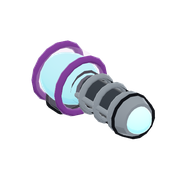
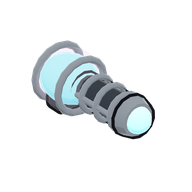
Vampiric parts: Siphon Proboscis, Blood Siphon, Bloodgnat
- Siphon Proboscis (jaw slot, rare): each hit heals 60% of damage dealt into
  the bug's most damaged parts.
- Blood Siphon (quick move): latch on 2.4 s, drain 9 dmg / 0.3 s, heal it all;
  AI won't break off mid-drink.
- Heal events: red droplets from victim to drinker, green +n numbers.
- New Undergrowth stop Bloodgnat (unlocks Vexa); Vexa toned down slightly.
- Proboscis model/icon, portrait.

Claude-Session: https://claude.ai/code/session_01FT8aJXgYMDZrr4uHJvcXkr

Changed region(s): [[0.1562, 0.1875, 0.5625, 0.625]]

diff --git a/src/game/sim.ts b/src/game/sim.ts
@@ -77,6 +77,9 @@ export type Bug = {
   haste: number;
   /** Seconds left underground (Burrow Strike): untouchable, tunnelling at its target. */
   burrow: number;
+  /** Seconds of Blood Siphon left (latched on, draining). */
+  siphon: number;
+  siphonTick: number;
   /** Exponentially decaying recent damage taken, for move judgement. */
   recentDamage: number;
   /** Autonomous driver state (see aiInput). */
@@ -104,7 +107,9 @@ export type SimEvent =
   | { type: 'ult-release'; bug: number; move: MoveId }
   | { type: 'move'; bug: number; move: MoveId }
   /** A burrowed bug bursts out of the floor. */
-  | { type: 'erupt'; bug: number; x: number; y: number };
+  | { type: 'erupt'; bug: number; x: number; y: number }
+  /** A bug healed (vampiric hits, Blood Siphon). `from` is the bug it drank from. */
+  | { type: 'heal'; bug: number; from: number; x: number; y: number; h: number; amount: number };
 
 export type Ult = { id: MoveId; caster: number; t: number; dur: number };
 
@@ -265,6 +270,8 @@ function makeBug(index: number, team: 0 | 1, fighter: Fighter, pos: Vec, heading
     cloak: 0,
     haste: 0,
     burrow: 0,
+    siphon: 0,
+    siphonTick: 0,
     recentDamage: 0,
     alt: 0,
     vAlt: 0,
@@ -416,8 +423,9 @@ export function critChance(attacker: Bug, victim: Bug, from: Vec) {
   return Math.min(CRIT.max, CRIT.base + angle + attacker.stats.crit);
 }
 
-function damagePart(sim: Sim, bug: Bug, p: SimPart, dmg: number, attacker: Bug | null, crit = false) {
-  if (!p.alive || !canBeHurt(sim, bug)) return;
+/** Damage a part; returns the damage actually done (0 if it couldn't be hurt). */
+function damagePart(sim: Sim, bug: Bug, p: SimPart, dmg: number, attacker: Bug | null, crit = false): number {
+  if (!p.alive || !canBeHurt(sim, bug)) return 0;
   if (bug.cloak > 0) bug.cloak = Math.min(bug.cloak, 0.4); // a hit flushes it out of hiding
   dmg *= DAMAGE_SCALE * (0.8 + rand(sim) * 0.4) * (crit ? CRIT.mult : 1);
   if (bug.shield > 0) dmg *= 0.3;
@@ -449,7 +457,7 @@ function damagePart(sim: Sim, bug: Bug, p: SimPart, dmg: number, attacker: Bug |
     sim.hitstop = Math.max(sim.hitstop, 0.04);
     sim.shake = Math.max(sim.shake, 0.18);
   }
-  if (p.hp > 0) return;
+  if (p.hp > 0) return dmg;
 
   p.alive = false;
   // A part breaking gets a beat of hit-stop and a proper shake.
@@ -472,8 +480,26 @@ function damagePart(sim: Sim, bug: Bug, p: SimPart, dmg: number, attacker: Bug |
   }
   refresh(bug);
   if (bug.dead) sim.log.push(`${bug.name} is disabled!`);
+  return dmg;
 }
 
+/**
+ * Heal `bug` by `amount`, most-damaged parts first (broken parts stay broken).
+ * `from` is the bug the health was drunk from (for the effect).
+ */
+function heal(sim: Sim, bug: Bug, amount: number, from: Bug) {
+  if (bug.dead || amount <= 0) return;
+  let left = amount;
+  const hurt = bug.parts.filter((p) => p.alive && p.hp < p.part.hp).sort((a, b) => a.hp / a.part.hp - b.hp / b.part.hp);
+  for (const p of hurt) {
+    const add = Math.min(left, p.part.hp - p.hp);
+    p.hp += add;
+    left -= add;
+    if (left <= 0) break;
+  }
+  const done = amount - left;
+  if (done > 0.5) sim.events.push({ type: 'heal', bug: bug.index, from: from.index, x: bug.pos.x, y: bug.pos.y, h: bug.alt, amount: done });
+}
 function damageNear(sim: Sim, bug: Bug, at: Vec, dmg: number, attacker: Bug | null) {
   const hit = nearestPart(bug, at, true);
   if (hit) damagePart(sim, bug, hit.p, dmg, attacker);
@@ -542,6 +568,9 @@ function judge(sim: Sim, bug: Bug, id: MoveId): boolean {
       return bug.haste <= 0 && dist < 170;
     case 'gale-flap':
       return near(120, true) || (near(120) && bug.recentDamage > 10);
+    case 'blood-siphon':
+      // Latch on once hurt enough for it to matter.
+      return bug.siphon <= 0 && dist < bug.radius + foe.radius + 30 && hpFraction(bug) < 0.85 && Math.abs(foe.alt - bug.alt) < 30;
   }
 }
 
@@ -745,6 +774,10 @@ function resolveMove(sim: Sim, bug: Bug, id: MoveId) {
     case 'overclock':
       bug.haste = 5;
       break;
+    case 'blood-siphon':
+      bug.siphon = 2.4;
+      bug.siphonTick = 0;
+      break;
     case 'gale-flap':
       for (const e of foesOf(sim, bug)) {
         const d = Math.hypot(e.pos.x - bug.pos.x, e.pos.y - bug.pos.y) || 1;
@@ -780,6 +813,18 @@ function stepBug(sim: Sim, i: number, input: Input, dt: number) {
   bug.stun = Math.max(0, bug.stun - dt);
   bug.cloak = Math.max(0, bug.cloak - dt);
   bug.haste = Math.max(0, bug.haste - dt);
+  // Blood Siphon: while latched on and in reach, drink from the nearest enemy part.
+  if (bug.siphon > 0) {
+    bug.siphon = Math.max(0, bug.siphon - dt);
+    bug.siphonTick -= dt;
+    const prey = foeOf(sim, bug);
+    const gap = Math.hypot(prey.pos.x - bug.pos.x, prey.pos.y - bug.pos.y);
+    if (bug.siphonTick <= 0 && !bug.dead && !prey.dead && bug.stun <= 0 && gap < bug.radius + prey.radius + 40 && Math.abs(prey.alt - bug.alt) < 35) {
+      bug.siphonTick = 0.3;
+      const near = nearestPart(prey, bug.pos, true);
+      if (near) heal(sim, bug, damagePart(sim, prey, near.p, 9, bug), prey);
+    }
+  }
   for (const id of bug.moves) bug.moveCd[id] = Math.max(0, (bug.moveCd[id] ?? 0) - dt);
   if (bug.dead) {
     bug.vel.x *= 0.9;
@@ -874,7 +919,8 @@ function stepBug(sim: Sim, i: number, input: Input, dt: number) {
           dmg += Math.max(0, closing) * w.ramBonus;
         }
         const crit = rand(sim) < critChance(bug, enemy, wp) || ambush;
-        damagePart(sim, enemy, strikeTarget(sim, enemy, wp, bug.alt > enemy.alt + 15) ?? target.p, dmg, bug, crit);
+        const dealt = damagePart(sim, enemy, strikeTarget(sim, enemy, wp, bug.alt > enemy.alt + 15) ?? target.p, dmg, bug, crit);
+        if (w.drain) heal(sim, bug, dealt * w.drain, enemy);
       }
     }
     tryMoves(sim, bug);
@@ -1530,7 +1576,8 @@ export function aiInput(sim: Sim, me: number, aggression: number = sim.bugs[me].
       const fragile = bug.parts.some(
         (p) => p.alive && (p.part.category === 'core' || (p.part.weapon && weapons.length <= 1)) && p.hp < p.part.hp * 0.3,
       );
-      if (ai.engaged > flurry * (fragile ? 0.65 : 1) || (losingTrade && ai.engaged > 0.4)) {
+      // (Don't break off mid-drink.)
+      if (bug.siphon <= 0 && (ai.engaged > flurry * (fragile ? 0.65 : 1) || (losingTrade && ai.engaged > 0.4))) {
         ai.engaged = 0;
         setMode('retreat');
       }
@@ -1625,7 +1672,7 @@ export function hud(sim: Sim): Hud {
     dead: bug.dead,
     hp: hpFraction(bug),
     proc: bug.proc,
-    status: `${bug.webbed > 0 ? ' 🕸' : ''}${bug.stun > 0 ? ' ⚡' : ''}${bug.cloak > 0 ? ' 👻' : ''}${bug.burrow > 0 ? ' ⛏' : ''}${bug.haste > 0 ? ' 🔥' : ''}`,
+    status: `${bug.webbed > 0 ? ' 🕸' : ''}${bug.stun > 0 ? ' ⚡' : ''}${bug.cloak > 0 ? ' 👻' : ''}${bug.burrow > 0 ? ' ⛏' : ''}${bug.haste > 0 ? ' 🔥' : ''}${bug.siphon > 0 ? ' 🩸' : ''}`,
     shield: bug.shield > 0,
     flying: bug.alt > 8,
     wings: maxStamina(bug) > 0 ? bug.stamina / maxStamina(bug) : -1,

diff --git a/src/render/scene.ts b/src/render/scene.ts
@@ -681,6 +681,13 @@ export class ArenaRenderer {
         this.releaseFx(sim, e.move, e.bug);
       } else if (e.type === 'move') {
         this.moveFx(sim, e.move, e.bug);
+      } else if (e.type === 'heal') {
+        // Health flowing from the victim into the drinker: a few red droplets and a green glint.
+        const to = toWorld(e.x, e.y, e.h / CELL + 0.9);
+        const src = sim.bugs[e.from];
+        const from = toWorld(src.pos.x, src.pos.y, src.alt / CELL + 0.8);
+        this.drip(from, to, Math.min(6, 2 + Math.round(e.amount / 3)));
+        this.burst(to, 3, 0x7cffb2, 0.5);
       } else if (e.type === 'erupt') {
         // A burrower bursts out of the floor.
         const at = toWorld(e.x, e.y, 0.3);
@@ -972,6 +979,23 @@ export class ArenaRenderer {
     }
   }
 
+  /** Red droplets that fly from one point to another (vampiric healing). */
+  private drip(from: THREE.Vector3, to: THREE.Vector3, n: number) {
+    for (let i = 0; i < n; i++) {
+      const b = this.bits[this.nextBit];
+      this.nextBit = (this.nextBit + 1) % this.bits.length;
+      b.m.position.copy(from).add(new THREE.Vector3((Math.random() - 0.5) * 0.6, Math.random() * 0.4, (Math.random() - 0.5) * 0.6));
+      const life = 0.32 + Math.random() * 0.12;
+      // Aim so it arrives at `to` as gravity pulls it down (16 units/s²).
+      const v = to.clone().sub(b.m.position).divideScalar(life);
+      v.y += 8 * life;
+      b.vel.copy(v);
+      (b.m.material as THREE.MeshBasicMaterial).color.set(i % 3 === 0 ? 0xff6b6b : 0xc8102e);
+      b.life = b.max = life;
+      b.m.visible = true;
+    }
+  }
+
   /** Effects for the quick (non-cutscene) moves, fired the moment they're used. */
   private moveFx(sim: Sim, id: MoveId, bi: number) {
     const b = sim.bugs[bi];
@@ -1006,6 +1030,10 @@ export class ArenaRenderer {
         this.flash(mid, color, 1.7, 0.3);
         this.wave(mid, color, 1.2);
         this.startStreaks(bi, color, 0.5);
+        break;
+      case 'blood-siphon':
+        this.flash(mid, color, 1.4, 0.3);
+        this.burst(mid, 10, color, 0.9);
         break;
       case 'burrow-strike':
         this.burst(floor, 16, 0x8a6a45, 1.2);
@@ -1046,6 +1074,7 @@ export class ArenaRenderer {
       v.fxClock = 0;
       if (under) this.burst(toWorld(bug.pos.x, bug.pos.y, 0.2), 2, 0x8a6a45, 0.8);
       if (bug.stun > 0) this.burst(toWorld(bug.pos.x, bug.pos.y, bug.alt / CELL + 1.3), 2, 0xffe14d, 0.6);
+      if (bug.siphon > 0 && !bug.dead) this.burst(toWorld(bug.pos.x, bug.pos.y, bug.alt / CELL + 1.1), 1, 0xe8323f, 0.5);
       if (bug.haste > 0 && !bug.dead) this.burst(toWorld(bug.pos.x, bug.pos.y, bug.alt / CELL + 0.6), 1, 0xff9a2e, 0.6);
     }
   }

diff --git a/src/game/parts.ts b/src/game/parts.ts
@@ -39,10 +39,12 @@ export type WeaponStats = {
   ramBonus?: number;
   /** Lasers: the shot is a bolt of light (very fast; drawn as a beam). */
   beam?: boolean;
+  /** Vampiric: this share of the damage dealt heals the attacker's most damaged parts. */
+  drain?: number;
 };
 
 /** Special hardware a signature move can need (see MoveDef.requires). */
-export type PartTag = 'venom' | 'silk' | 'spider' | 'dig' | 'cloak' | 'laser' | 'shock';
+export type PartTag = 'venom' | 'silk' | 'spider' | 'dig' | 'cloak' | 'laser' | 'shock' | 'drain';
 
 export type PartDef = {
   id: string;
@@ -90,6 +92,7 @@ export const PARTS: readonly PartDef[] = [
   // ── Weapons ────────────────────────────────────────────────────
   { id: 'mand-gnash', name: 'Gnasher Jaws', category: 'mandibles', rarity: 'common', description: 'Chomping jaws. Short reach, steady damage.', hp: 35, mass: 4, power: 2, weapon: { damage: 9, range: 34, cooldown: 0.6, arc: deg(50) } },
   { id: 'mand-shear', name: 'Shearfang Jaws', category: 'mandibles', rarity: 'rare', description: 'Serrated scissor jaws that bite deep.', hp: 45, mass: 5, power: 3, weapon: { damage: 16, range: 36, cooldown: 0.7, arc: deg(45) } },
+  { id: 'mand-proboscis', name: 'Siphon Proboscis', category: 'mandibles', rarity: 'rare', description: 'A mosquito needle. Every hit heals your bug for 60% of the damage. Lets you use Blood Siphon.', hp: 30, mass: 3, power: 2, tag: 'drain', weapon: { damage: 11, range: 44, cooldown: 0.65, arc: deg(30), drain: 0.6 } },
   { id: 'sting-dart', name: 'Dart Stinger', category: 'stinger', rarity: 'uncommon', description: 'Fires corrosive darts at range.', hp: 25, mass: 3, power: 3, tag: 'venom', weapon: { damage: 10, range: 190, cooldown: 1.0, arc: deg(20), projectileSpeed: 320 } },
   { id: 'sting-lance', name: 'Arc Lance Stinger', category: 'stinger', rarity: 'epic', description: 'Overcharged stinger. Heavy darts, long reload.', hp: 35, mass: 4, power: 5, tag: 'venom', weapon: { damage: 18, range: 220, cooldown: 1.6, arc: deg(18), projectileSpeed: 380 } },
   { id: 'pinc-clamp', name: 'Clamp Pincers', category: 'pincers', rarity: 'common', description: 'Wide-sweeping claws that crush.', hp: 40, mass: 5, power: 2, weapon: { damage: 12, range: 40, cooldown: 0.9, arc: deg(70) } },

diff --git a/src/render/models.ts b/src/render/models.ts
@@ -328,6 +328,7 @@ const LOOK: Record<string, number> = {
   'legs-crawler': 2,
   'wings-glass': 1,
   'mand-shear': 1,
+  'mand-proboscis': 2,
   'sting-lance': 1,
   'pinc-vise': 1,
   'horn-drill': 1,
@@ -693,6 +694,28 @@ export function buildPart(partId: string, side: number, row = 0): PartModel {
     }
 
     case 'mandibles': {
+      if (look === 2) {
+        // Mosquito proboscis: a fleshy sheath, a long needle with a blood tube that glows as it drinks.
+        root.add(at(shape(ellip(0.3, 0.22, 0.26), dark), 0, 0.5, 0.26));
+        for (const d of [-1, 1]) root.add(at(shape(ellip(0.1, 0.08, 0.12), main, 0.02), 0.2 * d, 0.56, 0.12)); // palps
+        const blood = mat(0xff8f8f, { emissive: 0xc8102e });
+        const needle = new THREE.Group();
+        needle.position.set(0, 0.5, 0.06);
+        needle.add(chain([V(0, 0, 0), V(0, -0.02, -0.4), V(0, -0.06, -0.8)], 0.1, 0.06, main));
+        for (let i = 0; i < 4; i++) needle.add(at(new THREE.Mesh(torus(0.095 - i * 0.008, 0.022), dark), 0, -0.01 - i * 0.012, -0.12 - i * 0.18));
+        const tube = seg(V(0, 0.05, -0.05), V(0, 0.0, -0.78), 0.035, blood, 0.03, 0);
+        needle.add(tube);
+        const tip = shape(cone(0.04, 0.42, 6), steel, 0.02);
+        tip.rotation.x = -Math.PI / 2 - 0.08;
+        needle.add(at(tip, 0, -0.08, -1.0));
+        root.add(needle);
+        animate = ({ t, attack }) => {
+          needle.position.z = 0.06 - attack * 0.22; // stab
+          needle.rotation.x = Math.sin(t * 2.2 + row) * 0.04 + attack * 0.06;
+          blood.emissiveIntensity = 0.5 + Math.max(0, Math.sin(t * 7)) * 0.4 + attack * 1.5; // pumping
+        };
+        break;
+      }
       root.add(at(shape(rbox(0.6, 0.32, 0.36, 0.12), dark), 0, 0.5, 0.28));
       root.add(at(shape(rbox(0.36, 0.12, 0.1, 0.04), gun, 0.02), 0, 0.5, 0.08)); // mouth recess
       for (const d of [-1, 1]) bolt(0.22 * d, 0.68, 0.3);

diff --git a/src/game/opponents.ts b/src/game/opponents.ts
@@ -99,6 +99,7 @@ const L = {
   q: 'pinc-digger',
   t: 'horn-shock',
   i: 'armor-mirage',
+  y: 'mand-proboscis',
 };
 
 const bug = (name: string, rows: string[]): Build => ({ name, placements: fromLayout(rows, L) });
@@ -247,12 +248,26 @@ export const OPPONENTS: Opponent[] = [
     map: { x: 0.72, y: 0.665 },
   },
   {
+    id: 'bloodgnat',
+    name: 'Bloodgnat',
+    blurb: 'A whining mosquito-bot. Every bite it lands patches it up, so finish it fast.',
+    arena: 'pit',
+    aggression: 0.9,
+    build: bug('Bloodgnat', ['.MyM.', 'ceHec', 'GBOBG', 'sKoKs', '.s.s.']),
+    moves: ['blood-siphon', 'overclock'],
+    boss: false,
+    guaranteed: [move('blood-siphon'), part('mand-proboscis')],
+    lootTable: [...tierTable('rare'), { reward: part('mand-proboscis'), weight: 20 }, { reward: part('wings-glass'), weight: 6 }],
+    unlockedBy: ['silkjaw'],
+    map: { x: 0.5, y: 0.665 },
+  },
+  {
     id: 'vexa',
     name: 'Queen Vexa',
     blurb: 'Hive champion. Drill horn, shear jaws, glass wings. Farmable boss.',
     arena: 'hive',
     aggression: 0.8,
-    build: bug('Queen Vexa', ['.mDM.', 'rBVBr', 'GBOBG', '.gog.']),
+    build: bug('Queen Vexa', ['.mhM.', 'rBVBr', 'GBOBG', '.gog.']),
     moves: ['mandible-crusher', 'carapace-lock'],
     boss: true,
     guaranteed: [part('wings-glass'), part('mand-shear')],
@@ -264,7 +279,7 @@ export const OPPONENTS: Opponent[] = [
       { reward: part('wings-glass'), weight: 8 },
       { reward: move('mandible-crusher'), weight: 4 },
     ],
-    unlockedBy: ['gravelgrub', 'arcfly'],
+    unlockedBy: ['gravelgrub', 'arcfly', 'bloodgnat'],
     map: { x: 0.5, y: 0.585 },
   },
 

diff --git a/src/app/arena.tsx b/src/app/arena.tsx
@@ -160,6 +160,19 @@ export default function Arena() {
       const items: Floater[] = [];
       for (; cursor < sim.events.length; cursor++) {
         const e = sim.events[cursor];
+        if (e.type === 'heal') {
+          if (e.amount < 2) continue;
+          const hp = renderer.project(e.x, e.y, e.h / CELL + 2.2);
+          items.push({
+            id: nextId++,
+            x: Math.min(size.current.w - 50, Math.max(50, hp.x * size.current.w)),
+            y: Math.min(size.current.h - 120, Math.max(90, hp.y * size.current.h)),
+            text: `+${Math.round(e.amount)}`,
+            color: '#7CFFB2',
+            size: 18,
+          });
+          continue;
+        }
         if (e.type !== 'hit' && e.type !== 'break' && e.type !== 'crash') continue;
         const crit = e.type === 'hit' && e.crit;
         const h = e.type === 'crash' ? 0 : e.h / CELL;

diff --git a/src/game/moves.ts b/src/game/moves.ts
@@ -27,7 +27,8 @@ export type MoveId =
   | 'sunder-beam'
   | 'static-burst'
   | 'overclock'
-  | 'gale-flap';
+  | 'gale-flap'
+  | 'blood-siphon';
 
 export type MoveDef = {
   id: MoveId;
@@ -167,6 +168,17 @@ export const MOVES: readonly MoveDef[] = [
     cooldown: 8,
     ultimate: false,
     requires: { category: 'wings', count: 1, label: 'wings' },
+  },
+  {
+    id: 'blood-siphon',
+    name: 'Blood Siphon',
+    description: 'Latches on and drinks for 2.4 seconds: drains the nearest enemy part and pours it all back into your own damaged parts. Needs a Siphon Proboscis.',
+    rarity: 'rare',
+    color: '#E8323F',
+    cost: 35,
+    cooldown: 11,
+    ultimate: false,
+    requires: { tag: 'drain', count: 1, label: 'a Siphon Proboscis' },
   },
 ];
 

diff --git a/src/components/part-icons.ts b/src/components/part-icons.ts
@@ -19,6 +19,7 @@ export const PART_ICONS: Record<string, ImageSourcePropType> = {
   'wings-glass': require('@/assets/parts/wings-glass.png'),
   'mand-gnash': require('@/assets/parts/mand-gnash.png'),
   'mand-shear': require('@/assets/parts/mand-shear.png'),
+  'mand-proboscis': require('@/assets/parts/mand-proboscis.png'),
   'sting-dart': require('@/assets/parts/sting-dart.png'),
   'sting-lance': require('@/assets/parts/sting-lance.png'),
   'pinc-clamp': require('@/assets/parts/pinc-clamp.png'),

diff --git a/src/components/bug-portraits.ts b/src/components/bug-portraits.ts
@@ -12,6 +12,7 @@ export const BUG_PORTRAITS: Record<string, ImageSourcePropType> = {
   lattice: require('@/assets/bugs/lattice.png'),
   gravelgrub: require('@/assets/bugs/gravelgrub.png'),
   arcfly: require('@/assets/bugs/arcfly.png'),
+  bloodgnat: require('@/assets/bugs/bloodgnat.png'),
   vexa: require('@/assets/bugs/vexa.png'),
   twins: require('@/assets/bugs/twins.png'),
   glimmer: require('@/assets/bugs/glimmer.png'),

diff --git a/docs/GDD.md b/docs/GDD.md
@@ -137,7 +137,10 @@ Moves are unlocked like parts (from drops) and **equipped** in the Garage. There
 - **Ghost Shell** (Mirage Plate): invisible for 4.5 s. Enemies hunt its last-seen spot and can't target it unless it's touching them; its first melee hit out of hiding is a guaranteed crit; taking a hit flushes it out. Your own bug shows as a ghost, enemies all but vanish.
 - **Static Burst** (Tesla Prongs): enemies close by are stunned 1.3 s and lose 15 proc.
 - **Overclock** (2 cores): 5 s of +35% speed and +50% attack rate.
+- **Blood Siphon** (Siphon Proboscis): latches on for 2.4 s, draining 9 damage every 0.3 s from the nearest enemy part while in reach and pouring all of it back into its own most-damaged parts. The AI won't break off mid-drink.
 - **Gale Flap** (wings): hurls nearby enemies back (lighter ones further) and drains flyers' wing stamina so they drop.
+
+**Vampiric weapons:** the Siphon Proboscis (a jaw-slot mosquito needle) heals its bug for 60% of the damage each hit deals, most-damaged parts first (broken parts stay broken). Heals show as red droplets flowing from the victim and green **+n** numbers.
 
 **Sunder Beam** (Prism Cutter) is the fourth ultimate: the bug swings its lens onto the target and fires a beam that hits up to 5 parts in a line (piercing).
 
@@ -168,12 +171,12 @@ Measured with `scripts/simulate.ts` and an ad-hoc behaviour probe: about 5–7 c
 
 ## 8. Campaign and loot
 
-The campaign (`src/game/opponents.ts`) is a scrolling map of 17 stops in three zones. A stop unlocks when any of its `unlockedBy` stops is cleared.
+The campaign (`src/game/opponents.ts`) is a scrolling map of 18 stops in three zones. A stop unlocks when any of its `unlockedBy` stops is cleared.
 
 | Zone | Stops |
 |---|---|
 | **The Scrapyard** | Rustmite → Needlewisp / Snapclaw → **Ironback** (boss). Optional: **Old Scrapjaw** (teaches Overclock). |
-| **The Undergrowth** | Silkjaw (webs) → Gravelgrub (burrows) / Arcfly (static, gale) → **Queen Vexa** (boss). Optional: **Mother Lattice**. |
+| **The Undergrowth** | Silkjaw (webs) → Gravelgrub (burrows) / Arcfly (static, gale) / Bloodgnat (vampire) → **Queen Vexa** (boss). Optional: **Mother Lattice**. |
 | **The Deep Hive** | Rivet & Ratchet (2v2) → Glimmer (cloak) / Lenswing (laser) → The Tunnel Kings (2v2) → **The Hive Guard** (3v3 boss) → **Empress Kalyx** (3v3 finale, farmable). Optional: **Nullshade**. |
 
 **Team fights:** an opponent can bring a `team` of extra bugs, and names `allies` (ids of earlier opponents) whose bugs fight on the player's side. The sim handles 1–3 bugs a side (`createTeamSim`): each bug's AI picks the nearest enemy and sticks with it until it's down or another is much closer; a side loses when all its bugs are disabled; on time, the side with more total integrity wins. The HUD shows allies and extra enemies as small health bars. *(Assumption: allies are campaign partners, not extra bugs the player builds. See Open decisions.)*
